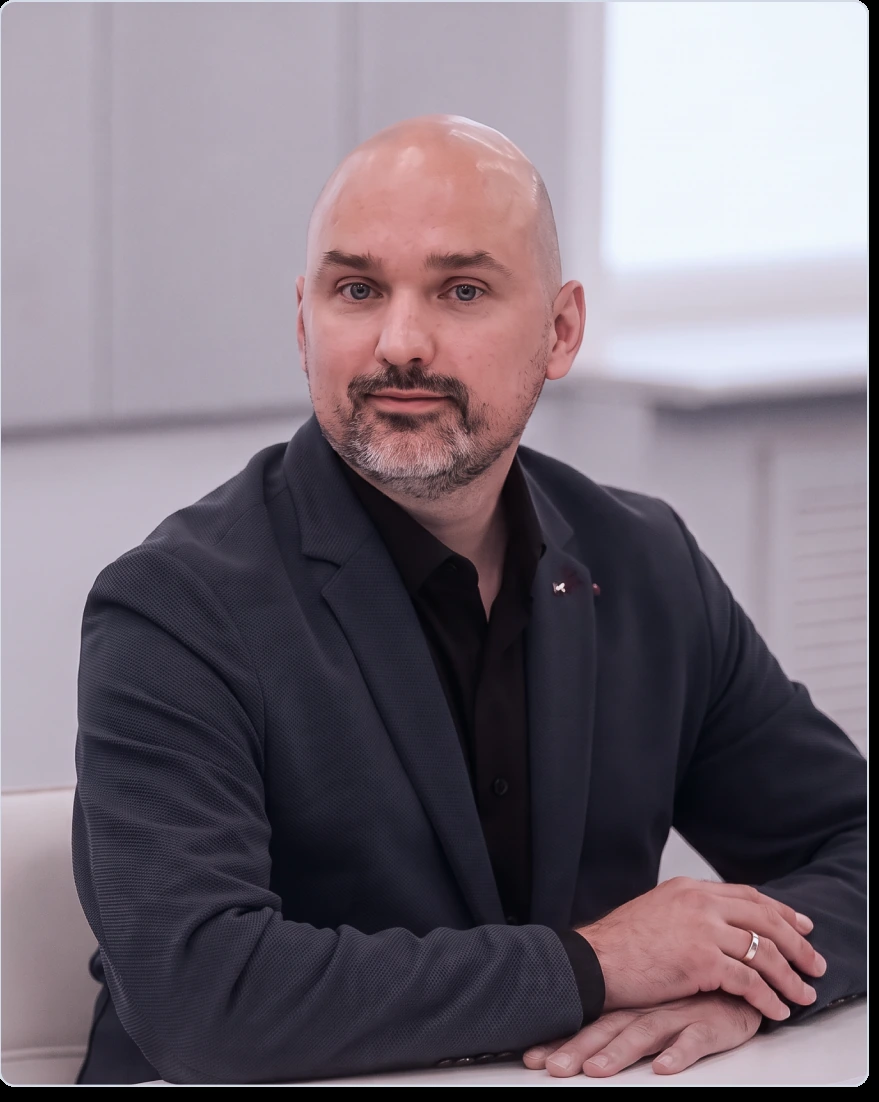
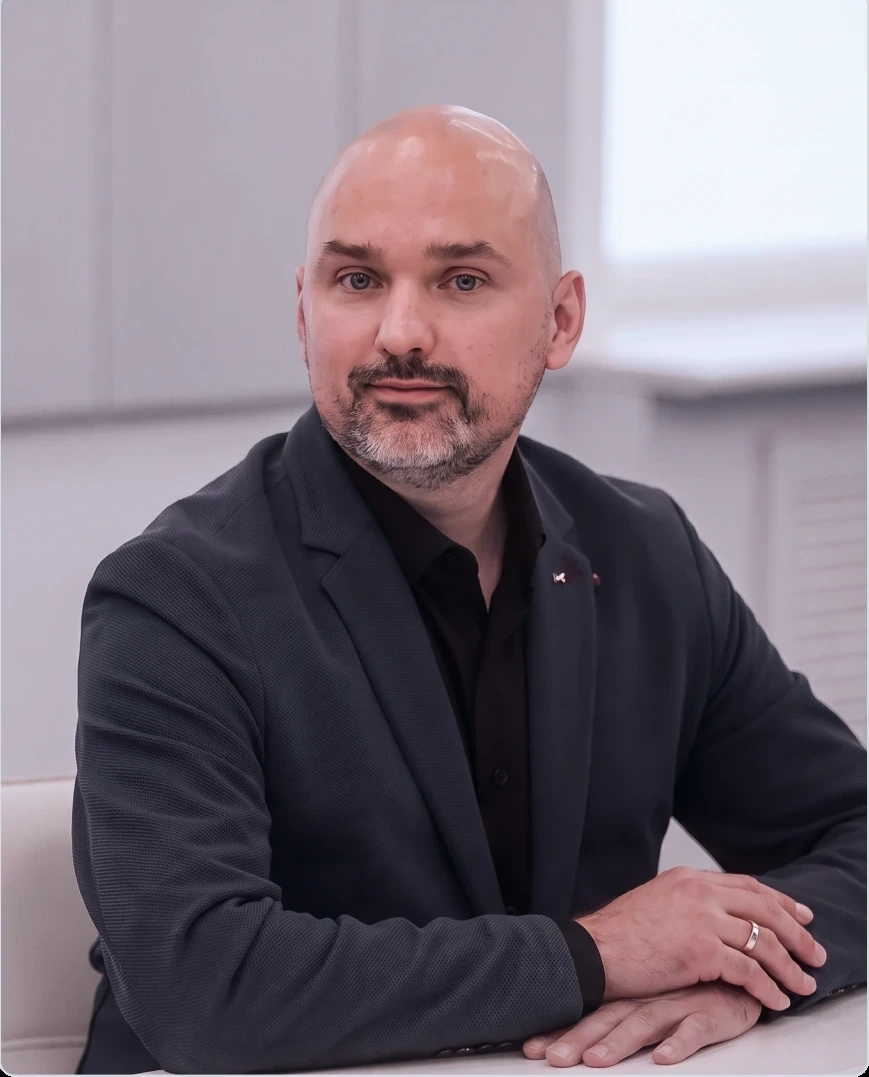
Clean portrait edges and fix header on scroll
Figma-Prompt-ID: 430
Figma-Session-ID: 7a09e3f9-051e-4c2a-94f6-2abac03a4d6d

diff --git a/src/styles.css b/src/styles.css
@@ -41,6 +41,7 @@
 * { box-sizing: border-box; }
 body { margin: 0; min-width: 20rem; background: var(--white); }
 body.menu-open { overflow: hidden; }
+section[id], footer[id] { scroll-margin-top: 5.5rem; }
 a { color: inherit; text-decoration: none; }
 button, input, select, textarea { font: inherit; }
 button { color: inherit; }
@@ -49,7 +50,7 @@ button { color: inherit; }
 .progress { position: fixed; inset: 0 0 auto; height: .22rem; z-index: 100; background: var(--red); transform-origin: left; animation: progress linear; animation-timeline: scroll(); }
 @keyframes progress { from { transform: scaleX(0); } to { transform: scaleX(1); } }
 
-.header { position: absolute; z-index: 10; top: 0; left: 0; width: 100%; min-height: 4.75rem; display: flex; align-items: center; gap: 1.5rem; padding: .4rem max(1.5rem, calc((100vw - 82rem) / 2)); color: #034e89; background: #f6fbff; box-shadow: 0 .35rem 1.5rem rgb(0 31 91 / .08); }
+.header { position: fixed; z-index: 10; top: 0; left: 0; width: 100%; min-height: 4.75rem; display: flex; align-items: center; gap: 1.5rem; padding: .4rem max(1.5rem, calc((100vw - 82rem) / 2)); color: #034e89; background: #f6fbff; box-shadow: 0 .35rem 1.5rem rgb(0 31 91 / .08); }
 .logo { display: block; flex: 0 0 auto; }
 .header-logo { display: block; width: clamp(10.625rem, 15vw, 14rem); height: auto; }
 .nav { display: flex; flex: 1; flex-wrap: nowrap; align-items: center; justify-content: flex-end; gap: 1.25rem; font-family: "Open Sans:SemiBold", var(--font-body); font-size: 1.125rem; font-weight: 600; line-height: 1.625rem; font-variation-settings: "wdth" 100; }
